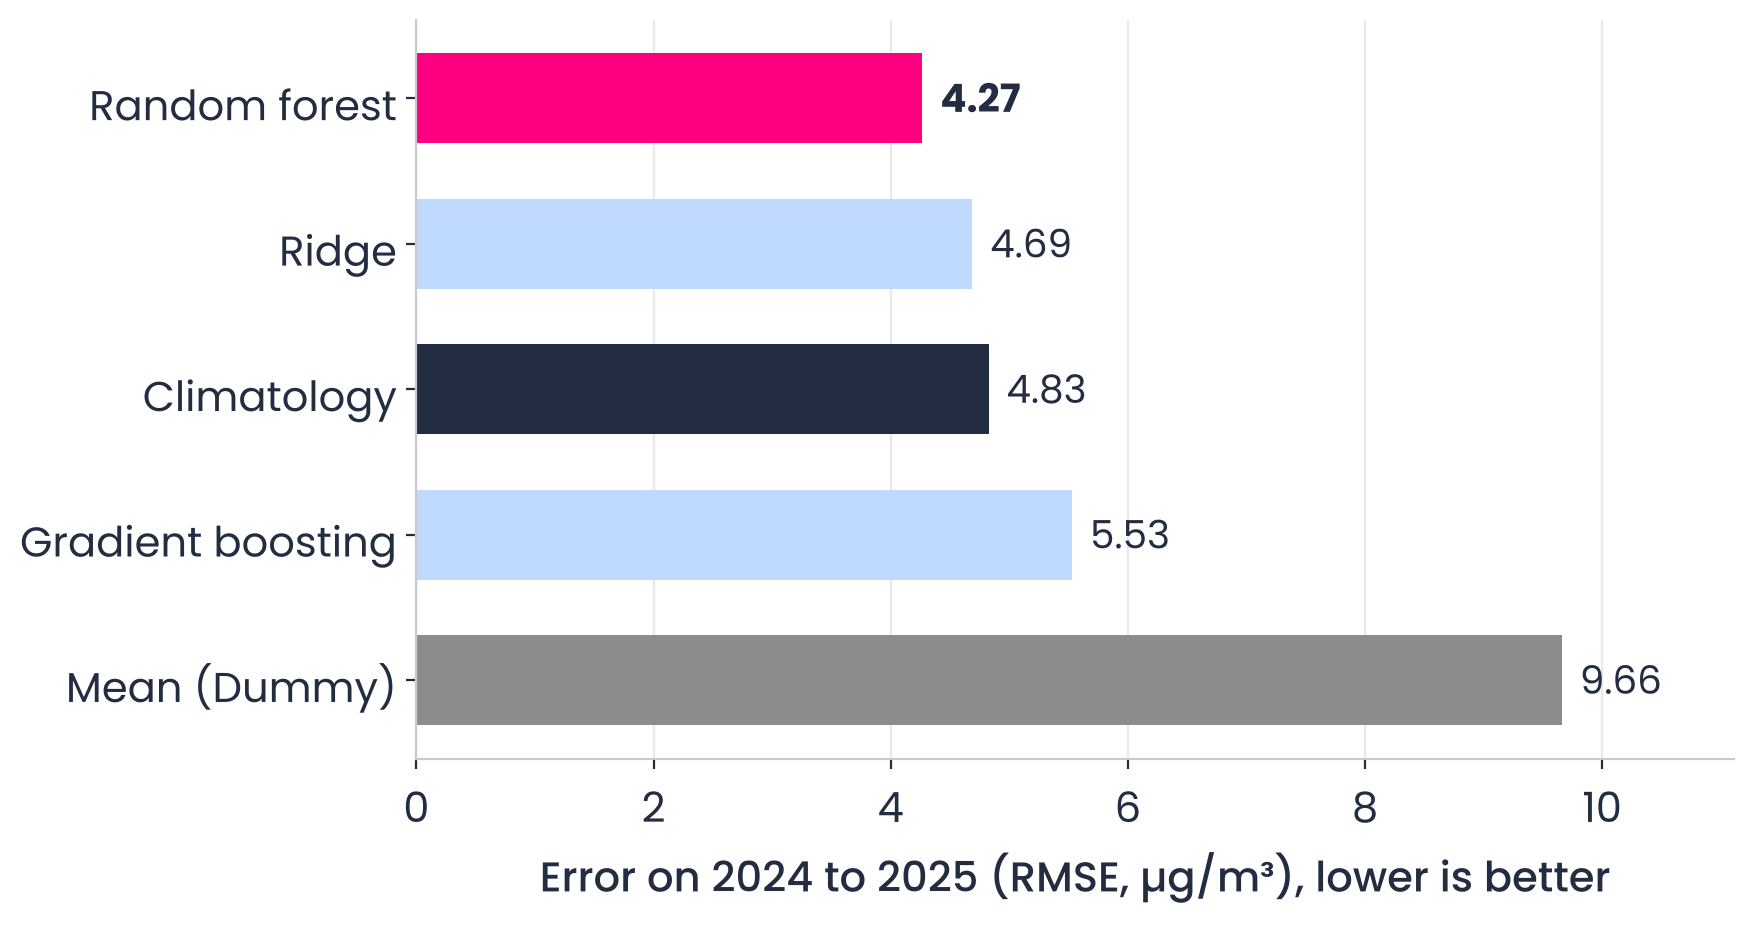
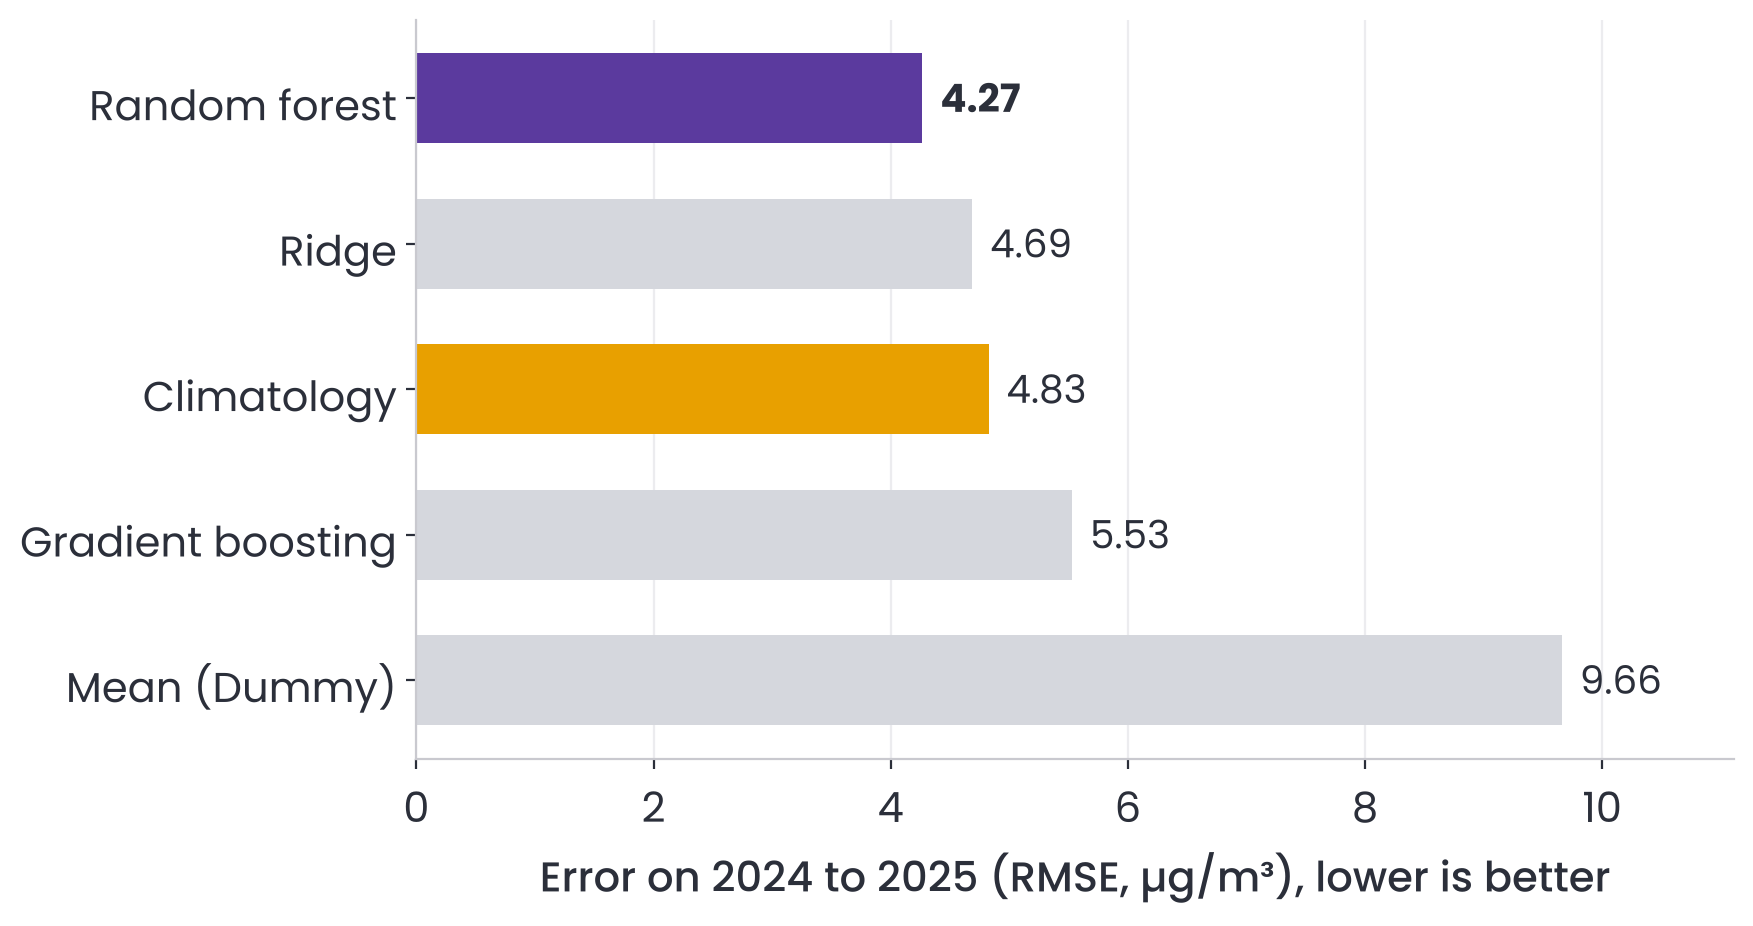
Recolour slide charts with a high-contrast purple and gold palette

diff --git a/src/make_slide_charts.py b/src/make_slide_charts.py
@@ -1,7 +1,8 @@
 """Slide-ready charts for the presentation (no in-image titles; the slide headline carries the message).
 
 Reads the processed tables written by notebooks/DS_analysis.ipynb and writes PNGs to figures/slides/.
-Palette matches the presentation: pink #FF0180, navy #232D42, yellow #FFDE59, orange #FFA100, blue #148DFF.
+Palette: a two-hue purple and gold pair chosen for maximum separation (validated for colour-vision deficiency,
+worst-case CIEDE-like OKLab difference 40 under protanopia), slate ink for text, and grey for de-emphasis.
 Usage: python src/make_slide_charts.py
 """
 import os, json
@@ -22,7 +23,8 @@ if os.path.isdir(FONT_DIR):
         if f.endswith(".ttf"): fm.fontManager.addfont(os.path.join(FONT_DIR, f))
     plt.rcParams["font.family"] = "Poppins"
 
-PINK, NAVY, YELLOW, ORANGE, BLUE, GREEN, GREY, LIGHT = "#FF0180", "#232D42", "#FFDE59", "#FFA100", "#148DFF", "#46B07C", "#8C8C8C", "#E9E9EC"
+PURPLE, GOLD, GOLD_DK, INK, GREY, PALE, LIGHT, LAV = "#5B3A9E", "#E8A000", "#B87F00", "#2B2F3A", "#9AA0A6", "#D5D7DD", "#ECECEF", "#ECE6F6"
+NAVY = INK
 plt.rcParams.update({"font.size": 15, "axes.edgecolor": "#C9C9CF", "axes.labelcolor": NAVY, "xtick.color": NAVY, "ytick.color": NAVY,
                      "axes.spines.top": False, "axes.spines.right": False, "axes.grid": True, "grid.color": LIGHT, "grid.linewidth": 0.8,
                      "axes.axisbelow": True, "legend.frameon": False, "figure.facecolor": "white", "axes.facecolor": "white",
@@ -41,48 +43,52 @@ R = json.load(open(os.path.join(ROOT, "results.json")))
 idx = pd.date_range("2016-01-01", "2025-12-01", freq="MS")
 order = sorted(pm.station_code.unique(), key=lambda s: (s.endswith("R"), s))
 av = pm.pivot_table(index="station_code", columns="date", values="pm25_mean").reindex(index=order, columns=idx)
-cmap = LinearSegmentedColormap.from_list("pk", ["#FFE3F1", "#FF8CC6", PINK, "#9E0050", NAVY])
+cmap = LinearSegmentedColormap.from_list("haze", ["#FFF6D5", "#F7CF57", GOLD, "#B0507A", PURPLE, "#24124D"])
+cmap.set_bad("#E4E5EA")
 fig, ax = plt.subplots(figsize=(12, 4.6))
-im = ax.imshow(av.values, aspect="auto", cmap=cmap, vmin=5, vmax=60, interpolation="nearest")
+im = ax.imshow(np.ma.masked_invalid(av.values), aspect="auto", cmap=cmap, vmin=5, vmax=60, interpolation="nearest")
 ax.set_yticks(range(len(order))); ax.set_yticklabels(order, fontsize=13)
 yp = [i for i, d in enumerate(idx) if d.month == 1]; ax.set_xticks(yp); ax.set_xticklabels([idx[i].year for i in yp], fontsize=13)
 ax.grid(False); [s.set_visible(False) for s in ax.spines.values()]
 cb = fig.colorbar(im, ax=ax, pad=0.01, fraction=0.03); cb.set_label("PM2.5 (µg/m³)", fontsize=13); cb.outline.set_visible(False)
+ax.text(1.0, -0.13, "grey = no PM2.5 measurement", transform=ax.transAxes, ha="right", fontsize=12, color=GREY)
 save(fig, "s01_availability.png")
 
 # 2 seasonal cycle bars --------------------------------------------------------------------
 clim = pm.groupby("month").pm25_mean.mean()
 dry = [11, 12, 1, 2, 3, 4]
 fig, ax = plt.subplots(figsize=(10, 5.2))
-cols = [PINK if m in dry else "#BFD9FF" for m in clim.index]
+cols = [PURPLE if m in dry else GOLD for m in clim.index]
 ax.bar(clim.index, clim.values, color=cols, width=0.72)
+from matplotlib.patches import Patch
+ax.legend(handles=[Patch(color=PURPLE, label="Dry season (Nov to Apr)"), Patch(color=GOLD, label="Wet season (May to Oct)")], loc="upper center", ncol=2, fontsize=13)
 for m in (1, 8):
     ax.text(m, clim[m] + 0.8, f"{clim[m]:.1f}", ha="center", fontsize=17, fontweight="bold", color=NAVY)
 ax.set_xticks(range(1, 13)); ax.set_xticklabels(MON, fontsize=15); ax.set_ylabel("Monthly mean PM2.5 (µg/m³)")
-ax.grid(axis="x", visible=False); ax.set_ylim(0, clim.max() * 1.15)
+ax.grid(axis="x", visible=False); ax.set_ylim(0, clim.max() * 1.25)
 save(fig, "s02_seasonal.png")
 
 # 3 drivers: three mini panels ---------------------------------------------------------------
 cm = city.groupby("month")[["precip", "vc", "fires_600km"]].mean()
 fig, axes = plt.subplots(3, 1, figsize=(7.5, 6.6), sharex=True)
-specs = [("precip", BLUE, "Rain (mm)"), ("vc", NAVY, "Ventilation (m²/s)"), ("fires_600km", ORANGE, "Fires ≤600 km")]
+specs = [("precip", PURPLE, "Rain (mm)"), ("vc", INK, "Ventilation (m²/s)"), ("fires_600km", GOLD, "Fires ≤600 km")]
 for ax, (k, c, lab) in zip(axes, specs):
     if k == "vc":
         ax.plot(cm.index, cm[k], color=c, lw=3, marker="o", ms=6)
     else:
         ax.bar(cm.index, cm[k], color=c, width=0.7)
     ax.set_ylabel(lab, fontsize=12.5); ax.grid(axis="x", visible=False)
-    for m in (1, 10): ax.axvspan(m - 0.45, m + 0.45, color=YELLOW, alpha=0.35, lw=0, zorder=0)
+    for m in (1, 10): ax.axvspan(m - 0.48, m + 0.48, color=LAV, alpha=1, lw=0, zorder=0)
 axes[-1].set_xticks(range(1, 13)); axes[-1].set_xticklabels(MON)
 fig.tight_layout(); save(fig, "s03_drivers.png")
 
 # 4 roadside vs general ---------------------------------------------------------------------
 pair = pm.pivot_table(index="date", columns="type", values="pm25_mean").dropna()
 fig, ax = plt.subplots(figsize=(11, 4.8))
-ax.fill_between(pair.index, pair.General, pair.Roadside, where=pair.Roadside >= pair.General, color=PINK, alpha=0.15, lw=0)
-ax.plot(pair.index, pair.General, color=NAVY, lw=2.2, label="General area")
-ax.plot(pair.index, pair.Roadside, color=PINK, lw=2.2, label="Roadside")
-ax.set_ylabel("PM2.5 (µg/m³)"); ax.legend(loc="upper right", fontsize=14, ncol=2)
+ax.fill_between(pair.index, pair.General, pair.Roadside, where=pair.Roadside >= pair.General, color=PURPLE, alpha=0.14, lw=0)
+ax.plot(pair.index, pair.General, color=GOLD, lw=2.6, label="General area")
+ax.plot(pair.index, pair.Roadside, color=PURPLE, lw=2.6, label="Roadside")
+ax.set_ylabel("PM2.5 (µg/m³)"); ax.legend(loc="upper right", fontsize=14, ncol=2); ax.set_ylim(top=pair.values.max() * 1.15)
 save(fig, "s04_roadside.png")
 
 # 5 trend: year effects ---------------------------------------------------------------------
@@ -92,8 +98,9 @@ yrs = list(range(2016, 2026)); ci = mY.conf_int()
 eff = [0] + [mY.params[f"C(year)[T.{y}]"] for y in yrs[1:]]
 lo = [0] + [ci.loc[f"C(year)[T.{y}]", 0] for y in yrs[1:]]; hi = [0] + [ci.loc[f"C(year)[T.{y}]", 1] for y in yrs[1:]]
 fig, ax = plt.subplots(figsize=(10, 5))
-ax.fill_between(yrs, lo, hi, color=PINK, alpha=0.15, lw=0)
-ax.plot(yrs, eff, color=PINK, lw=3, marker="o", ms=9, markeredgecolor="white", markeredgewidth=2)
+ax.fill_between(yrs, lo, hi, color=GOLD, alpha=0.28, lw=0, label="95% confidence interval")
+ax.plot(yrs, eff, color=PURPLE, lw=3, marker="o", ms=9, markeredgecolor="white", markeredgewidth=2, label="Year effect")
+ax.legend(loc="lower left", fontsize=13)
 ax.axhline(0, color=GREY, lw=1.2, ls="--")
 ax.set_xticks(yrs); ax.set_xticklabels([str(y) for y in yrs], fontsize=13); ax.set_ylabel("PM2.5 vs 2016 (µg/m³)")
 ax.grid(axis="x", visible=False)
@@ -102,12 +109,14 @@ save(fig, "s05_trend.png")
 # 6 compliance ------------------------------------------------------------------------------
 rec = pm[pm.year.isin([2024, 2025])].groupby("station_code").pm25_mean.mean().sort_values()
 fig, ax = plt.subplots(figsize=(9, 6))
-ax.barh(rec.index, rec.values, color=[PINK if s.endswith("R") else NAVY for s in rec.index], height=0.65)
-ax.axvline(15, color=ORANGE, lw=3); ax.axvline(5, color=GREEN, lw=3)
-ax.text(15.4, len(rec) - 0.35, "Thai standard 15", color=ORANGE, fontsize=13, fontweight="bold")
-ax.text(5.4, -0.95, "WHO 5", color=GREEN, fontsize=13, fontweight="bold")
+ax.barh(rec.index, rec.values, color=[PURPLE if s.endswith("R") else GOLD for s in rec.index], height=0.65)
+ax.axvline(15, color=INK, lw=2.5, ls="--"); ax.axvline(5, color=GREY, lw=2.5, ls=":")
+ax.text(15.4, len(rec) - 0.35, "Thai annual standard 15", color=INK, fontsize=13, fontweight="bold")
+ax.text(5.4, len(rec) - 0.35, "WHO guideline 5", color=GREY, fontsize=13, fontweight="bold")
+from matplotlib.patches import Patch
+ax.legend(handles=[Patch(color=PURPLE, label="Roadside"), Patch(color=GOLD, label="General area")], loc="lower right", fontsize=13)
 for i, v in enumerate(rec.values): ax.text(v + 0.4, i, f"{v:.1f}", va="center", fontsize=12.5, color=NAVY)
-ax.set_xlabel("Mean PM2.5, 2024 to 2025 (µg/m³)"); ax.grid(axis="y", visible=False); ax.set_xlim(0, rec.max() * 1.15)
+ax.set_xlabel("Mean PM2.5, 2024 to 2025 (µg/m³)"); ax.grid(axis="y", visible=False); ax.set_xlim(0, rec.max() * 1.15); ax.set_ylim(-0.6, len(rec) + 0.3)
 save(fig, "s06_compliance.png")
 
 # 7 fire anomaly scatter --------------------------------------------------------------------
@@ -115,8 +124,8 @@ c = city.copy(); c["lf"] = np.log1p(c.fires_600km)
 an = c[["pm25", "lf"]].groupby(c.month).transform(lambda s: s - s.mean())
 an["dry"] = c.month.isin(dry)
 fig, ax = plt.subplots(figsize=(8.5, 6))
-ax.scatter(an.lf[~an.dry], an.pm25[~an.dry], s=55, color="#BFD9FF", edgecolor="white", label="Wet season")
-ax.scatter(an.lf[an.dry], an.pm25[an.dry], s=65, color=PINK, edgecolor="white", label="Dry season")
+ax.scatter(an.lf[~an.dry], an.pm25[~an.dry], s=60, color=GOLD, edgecolor="white", linewidth=1.2, label="Wet season")
+ax.scatter(an.lf[an.dry], an.pm25[an.dry], s=70, color=PURPLE, edgecolor="white", linewidth=1.2, label="Dry season")
 sl, ic, r, p, _ = stats.linregress(an.lf, an.pm25); xx = np.linspace(an.lf.min(), an.lf.max(), 30)
 ax.plot(xx, ic + sl * xx, color=NAVY, lw=2.5)
 ax.axhline(0, color=GREY, lw=1); ax.axvline(0, color=GREY, lw=1)
@@ -134,7 +143,7 @@ labs = ["Fires only", "+ ventilation", "+ rain & humidity"]
 coef = [m.params["log_fires_600km"] for m in fits]; se = [m.bse["log_fires_600km"] for m in fits]; pv = [m.pvalues["log_fires_600km"] for m in fits]
 fig, ax = plt.subplots(figsize=(8.5, 4.6))
 y = np.arange(3)[::-1]
-for yi, cf, s, p_, col in zip(y, coef, se, pv, [PINK, PINK, GREY]):
+for yi, cf, s, p_, col in zip(y, coef, se, pv, [PURPLE, PURPLE, GREY]):
     ax.errorbar(cf, yi, xerr=1.96 * s, fmt="o", color=col, ms=14, elinewidth=4, capsize=0, markeredgecolor="white", markeredgewidth=2)
     ax.text(cf, yi + 0.28, f"+{cf:.2f}  (p = {p_:.3f})", ha="center", fontsize=13, color=NAVY)
 ax.axvline(0, color=NAVY, lw=1.2, ls="--")
@@ -148,7 +157,7 @@ names = ["Mean baseline (DummyRegressor)", "Gradient boosting", "Climatology bas
 short = ["Mean (Dummy)", "Gradient boosting", "Climatology", "Ridge", "Random forest"]
 fig, ax = plt.subplots(figsize=(8.5, 4.8))
 vals = [h[n]["RMSE"] for n in names]
-ax.barh(short, vals, color=[GREY, "#BFD9FF", NAVY, "#BFD9FF", PINK], height=0.62)
+ax.barh(short, vals, color=[PALE, PALE, GOLD, PALE, PURPLE], height=0.62)
 for i, v in enumerate(vals): ax.text(v + 0.15, i, f"{v:.2f}", va="center", fontsize=14, color=NAVY, fontweight="bold" if i == 4 else "normal")
 ax.set_xlabel("Error on 2024 to 2025 (RMSE, µg/m³), lower is better"); ax.grid(axis="y", visible=False); ax.set_xlim(0, max(vals) * 1.15)
 save(fig, "s09_ml_models.png")
@@ -156,7 +165,9 @@ save(fig, "s09_ml_models.png")
 # 10 permutation importance ------------------------------------------------------------------
 imp = pd.Series(R["rf_permutation_importance_rmse_increase"]).sort_values(ascending=False).head(8)[::-1]
 fig, ax = plt.subplots(figsize=(8, 5))
-ax.barh(imp.index, imp.values, color=[ORANGE if "Fire" in n else NAVY for n in imp.index], height=0.62)
+ax.barh(imp.index, imp.values, color=[GOLD if "Fire" in n else PURPLE for n in imp.index], height=0.62)
 ax.set_xlabel("Importance (RMSE increase, µg/m³)"); ax.grid(axis="y", visible=False)
+from matplotlib.patches import Patch
+ax.legend(handles=[Patch(color=GOLD, label="Fire variables"), Patch(color=PURPLE, label="Other variables")], loc="lower right", fontsize=13)
 save(fig, "s10_ml_importance.png")
 print("charts written to", OUT, sorted(os.listdir(OUT)))
